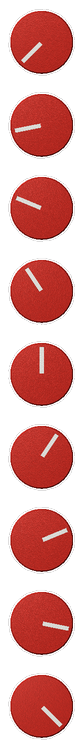
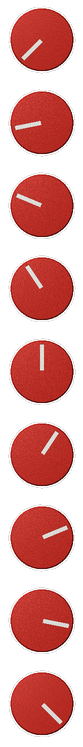
Fix the perspective direction, and settle how strong it is
The vertical lean was inverted. Art y runs DOWNWARD, so a knob above the eye
row has the SMALLER cy, and (eye_y - cy) put the camera above it - the opposite
of where the eye is. The whole panel was tilted inside out: the top knobs looked
down on and the bottom ones looked up at.

At one degree that is not obviously wrong, it just reads as slightly off, which
is how it survived. Confirming it needed the effect exaggerated five times and
a render of the same knob from above and below: the camera below puts the shaft
BELOW the cap, the camera above puts it ABOVE. A knob above the eye line has to
show shaft underneath.

The horizontal sign was already right and is untouched - a knob right of centre
is seen from its left.

Strength settled at VIEWER_DISTANCE 16000 by bracketing. 32000 was about a
degree at the extremes and too subtle to even confirm the direction by eye;
6000 was five times that and obviously too much. 16000 is about 2.5 degrees on
the outermost knobs. HMF stays at 0.00 by construction, since the eye sits on
that row.

Changed region(s): [[0.0964, 0.0, 0.9157, 1.0], [0.0964, 0.4618, 0.3373, 0.5234], [0.0964, 0.8005, 0.2651, 0.8621]]

diff --git a/tools/make-assets.py b/tools/make-assets.py
@@ -71,7 +71,12 @@ SUPERSAMPLE = 2
 # larger means a more distant viewer and a flatter panel. 32000 puts about one
 # degree on the outermost knobs, which is enough to read as depth and not enough
 # to look like a fisheye.
-VIEWER_DISTANCE = 32000.0
+# Larger means a more distant viewer and a flatter panel. Settled at 16000
+# after bracketing it: 32000 (about 1 degree at the extremes) was too subtle to
+# even confirm the direction by eye, and 6000 was clearly too much. 16000 puts
+# roughly 2.5 degrees on the outermost knobs - enough to read as depth without
+# announcing itself.
+VIEWER_DISTANCE = 16000.0
 # Eye height is on the HMF row, not the geometric middle of the panel. Ronald's
 # call: that is where you actually look when the thing is in front of you, a bit
 # above centre. It also spreads the vertical lean more evenly across the four
@@ -261,8 +266,14 @@ def main():
         # and the cap covers R_CAP of that. Divide back out rather than carry a
         # separate fudge factor - this is why BODY_OVER_RING is gone.
         r_px = (cap_r * scale) / knob3d.R_CAP
+        # Direction from the KNOB to the EYE. Art y runs downward, so a knob
+        # ABOVE the eye row has the smaller cy and the eye is BELOW it, which is
+        # (cy - eye_y) and not the other way round. Getting this backwards tilts
+        # the whole panel inside out - the top knobs get looked down on and the
+        # bottom ones looked up at, which is exactly wrong and, at one degree,
+        # just subtle enough to look like nothing more than "off".
         view = ((PANEL_EYE[0] - cx) / VIEWER_DISTANCE,
-                (PANEL_EYE[1] - cy) / VIEWER_DISTANCE)
+                (cy - PANEL_EYE[1]) / VIEWER_DISTANCE)
         probe, off = knob3d.render_at(r_px, 0.0, cap, ss=SUPERSAMPLE, view=view)
         fd = probe.size[0]
 
